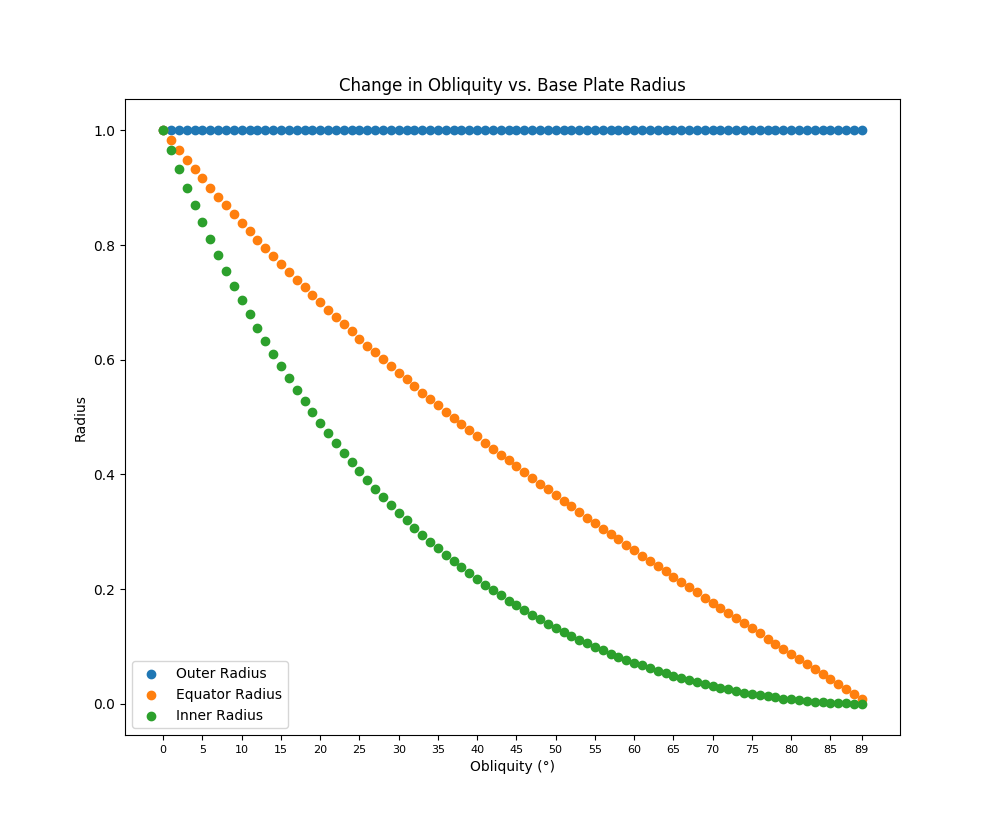
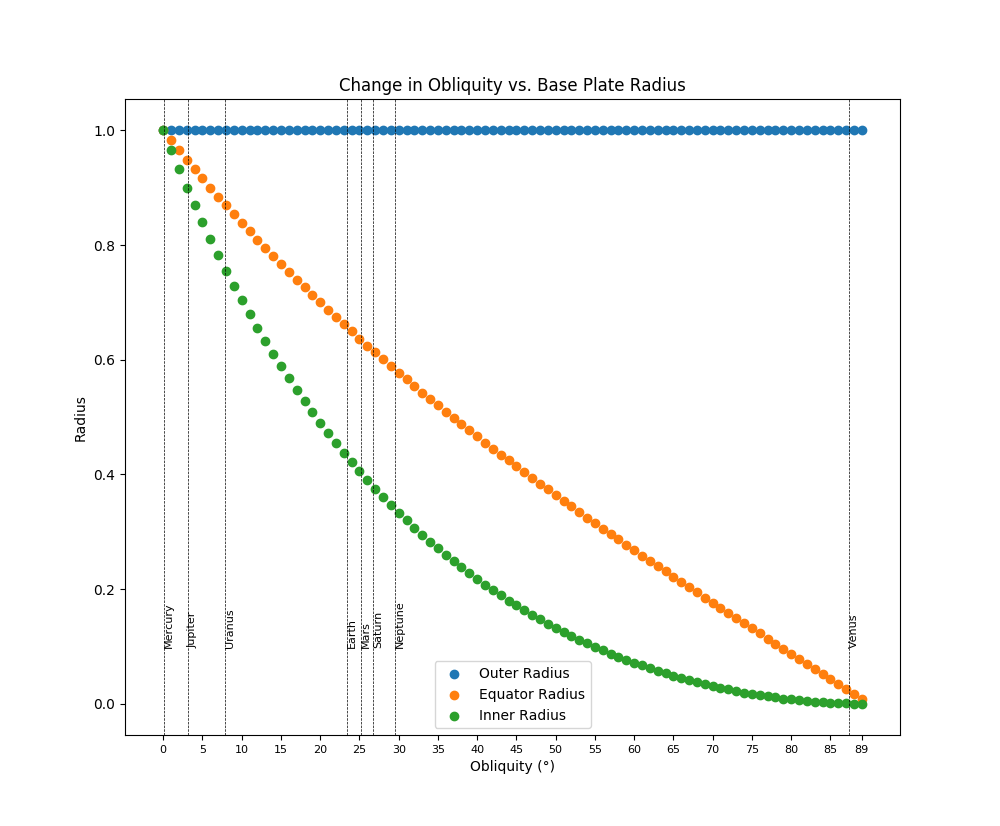
add solar system planet's as dashed in figure

diff --git a/page_x_astrolabe/calculate_base_plate.py b/page_x_astrolabe/calculate_base_plate.py
@@ -3,15 +3,26 @@ import numpy as np
 import math
 import matplotlib.pyplot as plt
 
+def convertObliquityWithin90(ob_planet):
+	# obliquity converted to be within 0-89.99
+	if ob_planet > 90: # obliquity over 90
+		ob_planet = ob_planet % 90
+	if ob_planet == 90: # Undefined at 90, convert to 89.99
+		ob_planet = 89.99
+	if ob_planet < 0: # negative
+		ob_planet = 360 + ob_planet
+		ob_planet = ob_planet % 90
+	return ob_planet
+
 def radiusOfTropicsAndEquator(base_plate_radius, obliquity_of_planet):
 	# return the radius for all the cirlces on the base plate
-	outer_tropic_radius = radius_of_base_plate # on base plate = Tropic of Capricorn
-	equator_radius = radius_of_base_plate / (math.tan(np.deg2rad(45 + (obliquity_of_planet/2)))) # on base plate = Tropic of Cancer
+	obliquity_of_planet = convertObliquityWithin90(obliquity_of_planet) # obliquity within 0-89.99
+	outer_tropic_radius = base_plate_radius # on base plate = Tropic of Capricorn
+	equator_radius = base_plate_radius / (math.tan(np.deg2rad(45 + (obliquity_of_planet/2)))) # on base plate = Tropic of Cancer
 	inner_tropic_radius = equator_radius * math.tan(np.deg2rad(45 - (obliquity_of_planet/2)))
 	return outer_tropic_radius, equator_radius, inner_tropic_radius
 
-if __name__ == '__main__':
-	# Find Ratio between concentric circles for base plate based on obliquity
+def plotEffectOfObliquityOnRadius():
 	"""#EARTH TESTING:
 	earth_obliquity = 23.4
 	radius_of_base_plate = 15
@@ -37,16 +48,38 @@ if __name__ == '__main__':
 	ax = fig.subplots()
 	plot_every_x = np.arange(0, 89, 5) # plot every five increments for ease of readability
 	plot_every_x = np.append(plot_every_x, 89) # include last point at 89 degrees
+
 	plt.xticks(plot_every_x, fontsize=8)
 	plt.title("Change in Obliquity vs. Base Plate Radius")
 	plt.xlabel("Obliquity (°)")
 	plt.ylabel("Radius")
+
 	plt.scatter(obliquity_range, outer_radius_lst, label="Outer Radius")
 	plt.scatter(obliquity_range, equator_radius_lst, label="Equator Radius")
 	plt.scatter(obliquity_range, inner_radius_lst, label="Inner Radius")
+	
+	planet_8_obliquities = {"Mercury": 0.1,
+							"Venus": 177.4,
+							"Earth": 23.4,
+							"Mars": 25.19,
+							"Jupiter": 3.12,
+							"Saturn": 26.73,
+							"Uranus": 97.86,
+							"Neptune": 29.56}
+
+	for planet_given_name, planet_given_obliquity in planet_8_obliquities.items(): 
+		# vertical dash line at the positions of planet's obliquities
+		planet_given_obliquity = convertObliquityWithin90(planet_given_obliquity)
+		plt.axvline(planet_given_obliquity, linewidth=0.5, color="black", linestyle="dashed")
+		plt.text(x=planet_given_obliquity, y=0.1, s=planet_given_name, fontsize=8, rotation=90) # add label on figure
+
 	plt.legend()
 	plt.show()
 	fig.savefig('base_plate_change_due_to_obliquity.png', dpi=fig.dpi)
 
+
+if __name__ == '__main__':
+	# Find Ratio between concentric circles for base plate based on obliquity
+	plotEffectOfObliquityOnRadius()
 
 
